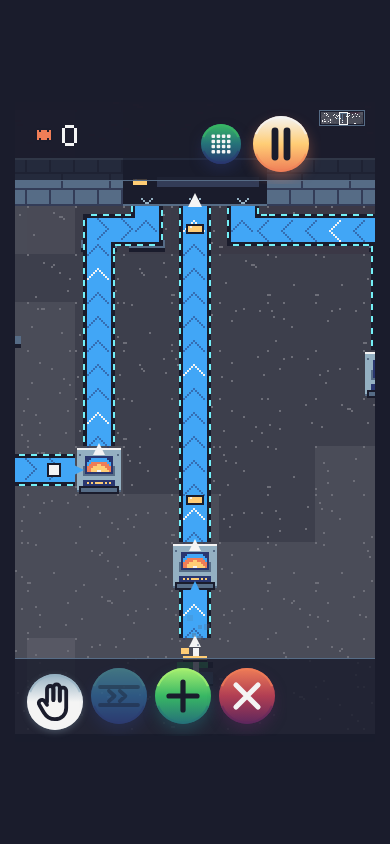
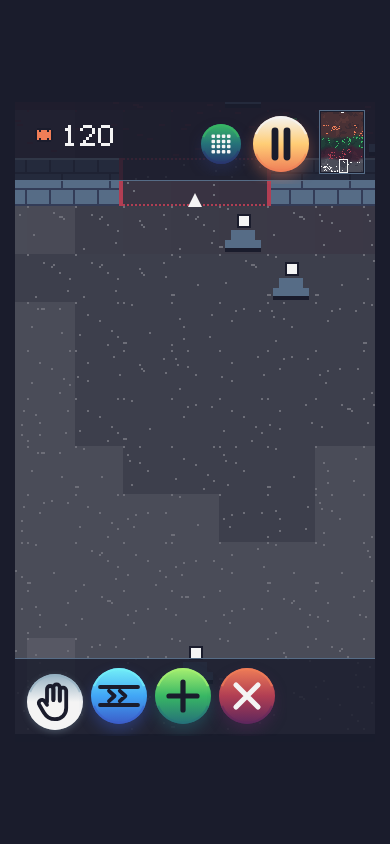
Un mur ouvert reste debout, et laisse passer par ses connecteurs
Il redevenait du sol ordinaire : rien ne disait plus ce qu'on avait gagné, et
un étage franchi s'oubliait. Sa rangée de blocs demeure maintenant, et ce qui
s'ouvre, ce sont les trois cases de sa réception — encadrées de rouge, ce sont
ses connecteurs, et c'est par là que la chaîne d'en bas monte à l'étage du
dessus.

Dérogation à CLAUDE.md, assumée : « un mur ouvert redevient du sol ordinaire,
pas de porte, pas de goulot ». Il y a une porte, et elle fait trois cases.

Le dernier étage gagne son mur, tout en haut du monde. Sans seuil, il ne
s'ouvre jamais — c'est ce qui dit que le jeu s'arrête là — mais il porte sa
réception : arrivé au sommet, on a encore où vendre.

Claude-Session: https://claude.ai/code/session_01Mr2xn8QvzTJXAxHSUxQHqT

diff --git a/src/sim/mur.js b/src/sim/mur.js
@@ -14,23 +14,54 @@
 // n'est compté à part pour autant : c'est la réception qui sait ce qu'elle a
 // reçu, matière par matière, et le mur ne fait que le lire.
 //
-// **Un mur ouvert redevient du sol ordinaire.** Pas de porte, pas de goulot
-// d'une case où les tapis s'étranglent : ouvert veut dire franchi, on n'y
-// pense plus.
+// **Un mur ouvert reste debout.** Il ne redevient pas du sol ordinaire : sa
+// rangée de blocs demeure, et ce qui s'ouvre, ce sont les trois cases de sa
+// réception — elles redeviennent du sol, et les tapis passent par là. Ce sont
+// les connecteurs du mur : ils relient les deux étages.
+//
+// C'est trois cases pour quarante-deux, donc un passage à viser, et c'est
+// voulu : un mur franchi doit rester visible, sinon rien ne dit ce qu'on a
+// gagné. La chaîne d'en bas monte par les connecteurs, et l'usine du dessous
+// continue de tourner pour toujours.
 
 import { COLONNES } from '../design.js';
 import { ETAGES, OUVERT_AU_DEPART } from '../data/zones.js';
 import { MACHINES } from '../data/machines.js';
 import { rangeesDe } from './carte.js';
-import { poser, lire } from './grid.js';
+import { poser } from './grid.js';
 import { ajouterMachine, retirerMachine, etendreMachine } from './scene.js';
 
 // L'étage le plus haut qu'on ait ouvert, et donc celui dont le mur nous
-// arrête. Le dernier du monde n'a pas de mur : c'est le bord du monde qui le
-// ferme, et il n'y a rien au-delà.
+// arrête. Le dernier du monde en a un aussi, tout en haut : sans seuil, il ne
+// s'ouvre jamais — c'est ce qui dit que le jeu s'arrête là — mais il porte sa
+// réception, et c'est là qu'on vend quand on est arrivé au sommet.
 export function murCourant(monde) {
-  if (monde.etageOuvert >= ETAGES.length) return null;
+  if (monde.etageOuvert > ETAGES.length) return null;
   return { etage: ETAGES[monde.etageOuvert - 1], cy: rangeesDe(monde.etageOuvert).mur };
+}
+
+// Tous les murs posés sur la grille : ceux qu'on a ouverts, du bas vers le
+// haut, puis celui qui nous arrête. Un mur ouvert reste debout — ce n'est que
+// sa réception qui a cédé la place à un passage.
+export function mursPoses(monde) {
+  const liste = [];
+  const dernier = Math.min(monde.etageOuvert, ETAGES.length);
+  // Le mur de l'étage où l'on est n'est posé que s'il existe : au-delà du
+  // dernier étage, il n'y a plus rien à fermer.
+  for (let n = 1; n <= dernier; n++) {
+    liste.push({
+      etage: ETAGES[n - 1],
+      cy: rangeesDe(n).mur,
+      ouvert: n < monde.etageOuvert,
+    });
+  }
+  return liste;
+}
+
+// Les trois cases du passage d'un mur : sa réception tant qu'il est fermé, du
+// sol ordinaire une fois ouvert.
+export function cellulesPassage(cy) {
+  return cellulesRecepteur(cy);
 }
 
 // La rangée la plus haute qu'on puisse regarder : celle du mur. Elle doit
@@ -93,14 +124,16 @@ export function avancementMur(monde) {
 // C'est la grille elle-même qui le dit, et tout le reste du jeu en hérite sans
 // avoir appris ce qu'est un mur.
 export function poserMur(monde) {
+  // Les murs ouverts d'abord : ils restent debout, seul leur passage est
+  // libre. C'est ce qui fait qu'un mur franchi se voit encore.
+  for (const mur of mursPoses(monde)) {
+    if (!mur.ouvert) continue;
+    poserRangee(monde, mur.cy);
+  }
+
   const mur = murCourant(monde);
   if (!mur) return;
-  const cellules = cellulesRecepteur(mur.cy);
-  const prise = new Set(cellules.map((c) => c.cx));
-  for (let cx = 0; cx < COLONNES; cx++) {
-    if (prise.has(cx)) continue;
-    poser(monde.scene.grille, cx, mur.cy, { genre: 'mur' });
-  }
+  const cellules = poserRangee(monde, mur.cy);
   const milieu = cellules[Math.floor(cellules.length / 2)];
   // Une partie relue a déjà sa réception : elle est une machine de la scène,
   // et la sauvegarde l'a rendue comme les autres. On ne lui en pose pas une
@@ -116,18 +149,28 @@ export function poserMur(monde) {
   etendreMachine(monde.scene, recepteur, cellules.filter((c) => c.cx !== recepteur.cx));
 }
 
-function retirerMur(monde, cy) {
-  const recepteur = recepteurDuMur(monde);
-  if (recepteur) {
-    // Les tapis qui la nourrissaient restent posés : ils perdent seulement où
-    // ils allaient. Rien ne disparaît tout seul de la grille.
-    for (const c of recepteur.cellules || [recepteur]) poser(monde.scene.grille, c.cx, c.cy, null);
-    retirerMachine(monde.scene, recepteur);
-  }
+// Les blocs d'une rangée de mur, sauf les trois cases de son passage. Rend
+// ces trois cases : selon le mur, elles porteront la réception ou rien.
+function poserRangee(monde, cy) {
+  const cellules = cellulesRecepteur(cy);
+  const prise = new Set(cellules.map((c) => c.cx));
   for (let cx = 0; cx < COLONNES; cx++) {
-    const c = lire(monde.scene.grille, cx, cy);
-    if (c && c.genre === 'mur') poser(monde.scene.grille, cx, cy, null);
+    if (prise.has(cx)) continue;
+    poser(monde.scene.grille, cx, cy, { genre: 'mur' });
   }
+  return cellules;
+}
+
+// Ouvrir un mur, c'est retirer sa réception : la rangée, elle, reste debout.
+// Les trois cases qu'elle occupait deviennent du sol ordinaire — ce sont les
+// connecteurs par où les tapis franchissent le mur.
+function ouvrirMur(monde) {
+  const recepteur = recepteurDuMur(monde);
+  if (!recepteur) return;
+  // Les tapis qui la nourrissaient restent posés : ils perdent seulement où
+  // ils allaient. Rien ne disparaît tout seul de la grille.
+  for (const c of recepteur.cellules || [recepteur]) poser(monde.scene.grille, c.cx, c.cy, null);
+  retirerMachine(monde.scene, recepteur);
 }
 
 // Le mur tombe-t-il ? On regarde à chaque pas : c'est la réception qui décide,
@@ -139,7 +182,7 @@ export function majMur(monde) {
   const mur = murCourant(monde);
   if (!mur || !mur.etage.mur) return;
   if (livreAuMur(monde, mur.etage.mur.item) < mur.etage.mur.combien) return;
-  retirerMur(monde, mur.cy);
+  ouvrirMur(monde);
   monde.etageOuvert++;
   monde.murTombe = ETAGES[monde.etageOuvert - 1];
   poserMur(monde);

diff --git a/src/render/mur.js b/src/render/mur.js
@@ -5,6 +5,9 @@
 //
 //   — **on ne passe pas** : une rangée de blocs, en ardoise, de la couleur de
 //     ce qui est inerte. Rien qui ressemble à une machine, rien qui s'allume ;
+//   — **on est passé par là** : un mur ouvert reste debout, et les trois cases
+//     de son ancienne réception deviennent son passage, encadré de rouge. Ce
+//     sont ses connecteurs : c'est par là que la chaîne d'en bas monte ;
 //   — **il y a quelque chose derrière** : au-dessus du mur, le monde est
 //     éteint. On voit qu'il y a un étage là sans savoir encore ce qu'il donne,
 //     exactement comme le livre des matières montre ses silhouettes ;
@@ -22,7 +25,9 @@ import {
   GRILLE_X, GRILLE_Y, ZONE_SURE,
 } from '../design.js';
 import { coinCellule, centreCellule } from '../sim/grid.js';
-import { murCourant, avancementMur, recepteurDuMur } from '../sim/mur.js';
+import {
+  murCourant, mursPoses, cellulesPassage, avancementMur, recepteurDuMur,
+} from '../sim/mur.js';
 import { versEcran } from '../camera.js';
 import { spriteItem } from './sprites.js';
 
@@ -59,11 +64,11 @@ export const tuileMur = (() => {
 
 export function dessinerMur(ctx, monde, f) {
   const mur = murCourant(monde);
-  if (!mur) return;
 
   // Ce qui est derrière s'éteint. Une seule plaque de noir : le sol continue
-  // dessous, et on le devine.
-  if (f.cy0 < mur.cy) {
+  // dessous, et on le devine. Seul le mur qui nous arrête éteint quelque
+  // chose — ceux qu'on a ouverts ne cachent plus rien.
+  if (mur && f.cy0 < mur.cy) {
     const haut = coinCellule(0, f.cy0);
     ctx.fillStyle = PALETTE.noir;
     ctx.globalAlpha = ETEINT;
@@ -71,15 +76,43 @@ export function dessinerMur(ctx, monde, f) {
     ctx.globalAlpha = 1;
   }
 
-  if (mur.cy < f.cy0 || mur.cy > f.cy1) return;
-  const recepteur = recepteurDuMur(monde);
-  const sienne = new Set((recepteur ? recepteur.cellules : []).map((c) => c.cx));
-  for (let cx = f.cx0; cx <= f.cx1; cx++) {
-    if (sienne.has(cx)) continue;
-    const coin = coinCellule(cx, mur.cy);
-    ctx.drawImage(tuileMur, coin.x, coin.y, CELLULE, CELLULE);
+  for (const pose of mursPoses(monde)) {
+    if (pose.cy < f.cy0 || pose.cy > f.cy1) continue;
+    const passage = new Set(cellulesPassage(pose.cy).map((c) => c.cx));
+    for (let cx = f.cx0; cx <= f.cx1; cx++) {
+      if (passage.has(cx)) continue;
+      const coin = coinCellule(cx, pose.cy);
+      ctx.drawImage(tuileMur, coin.x, coin.y, CELLULE, CELLULE);
+    }
+    if (pose.ouvert) dessinerPassage(ctx, pose.cy);
   }
+
+  const recepteur = recepteurDuMur(monde);
   if (recepteur) dessinerRecepteur(ctx, monde, recepteur);
+}
+
+// --- le passage d'un mur ouvert ---------------------------------------------
+
+// Les connecteurs : deux montants rouges qui encadrent les trois cases par où
+// l'on franchit le mur. Le rouge parce que rien d'autre ne l'est dans une
+// rangée d'ardoise — on voit le passage de loin, et c'est tout ce qu'il a à
+// dire. Le sol et les tapis, eux, passent dessous sans être recouverts.
+const MONTANT = 4; // unités logiques, deux pixels d'art
+
+function dessinerPassage(ctx, cy) {
+  const cellules = [...cellulesPassage(cy)].sort((a, b) => a.cx - b.cx);
+  const gauche = coinCellule(cellules[0].cx, cy);
+  const droite = coinCellule(cellules[cellules.length - 1].cx, cy);
+  ctx.fillStyle = PALETTE.rouge;
+  ctx.fillRect(gauche.x - MONTANT, gauche.y, MONTANT, CELLULE);
+  ctx.fillRect(droite.x + CELLULE, droite.y, MONTANT, CELLULE);
+  // Le linteau et le seuil, en pointillé d'un pixel : le passage se lit comme
+  // une ouverture et non comme deux traits perdus.
+  const l = droite.x + CELLULE - gauche.x;
+  for (let x = 0; x < l; x += PIXEL * 2) {
+    ctx.fillRect(gauche.x + x, gauche.y, PIXEL, PIXEL);
+    ctx.fillRect(gauche.x + x, gauche.y + CELLULE - PIXEL, PIXEL, PIXEL);
+  }
 }
 
 // --- la réception ----------------------------------------------------------
